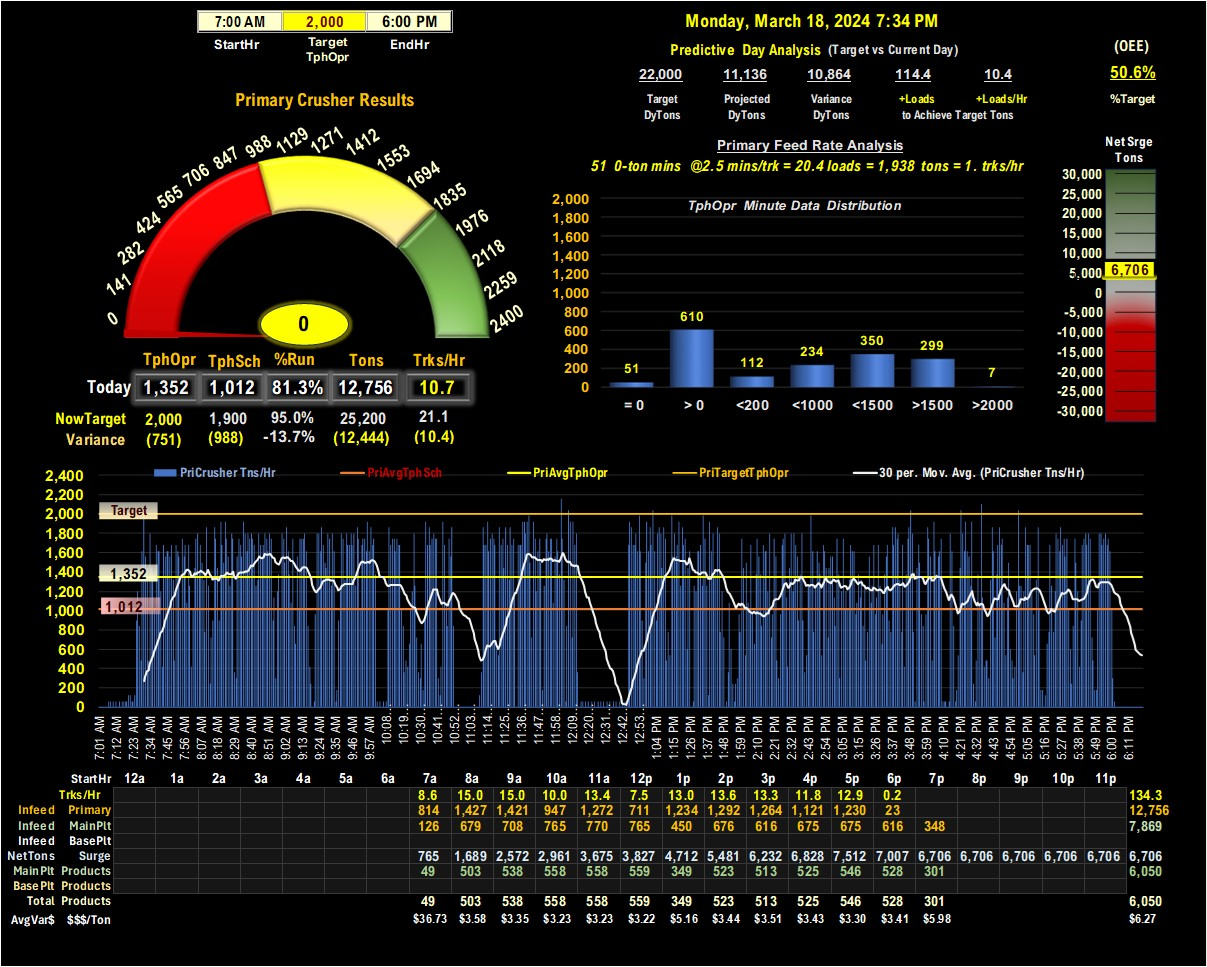
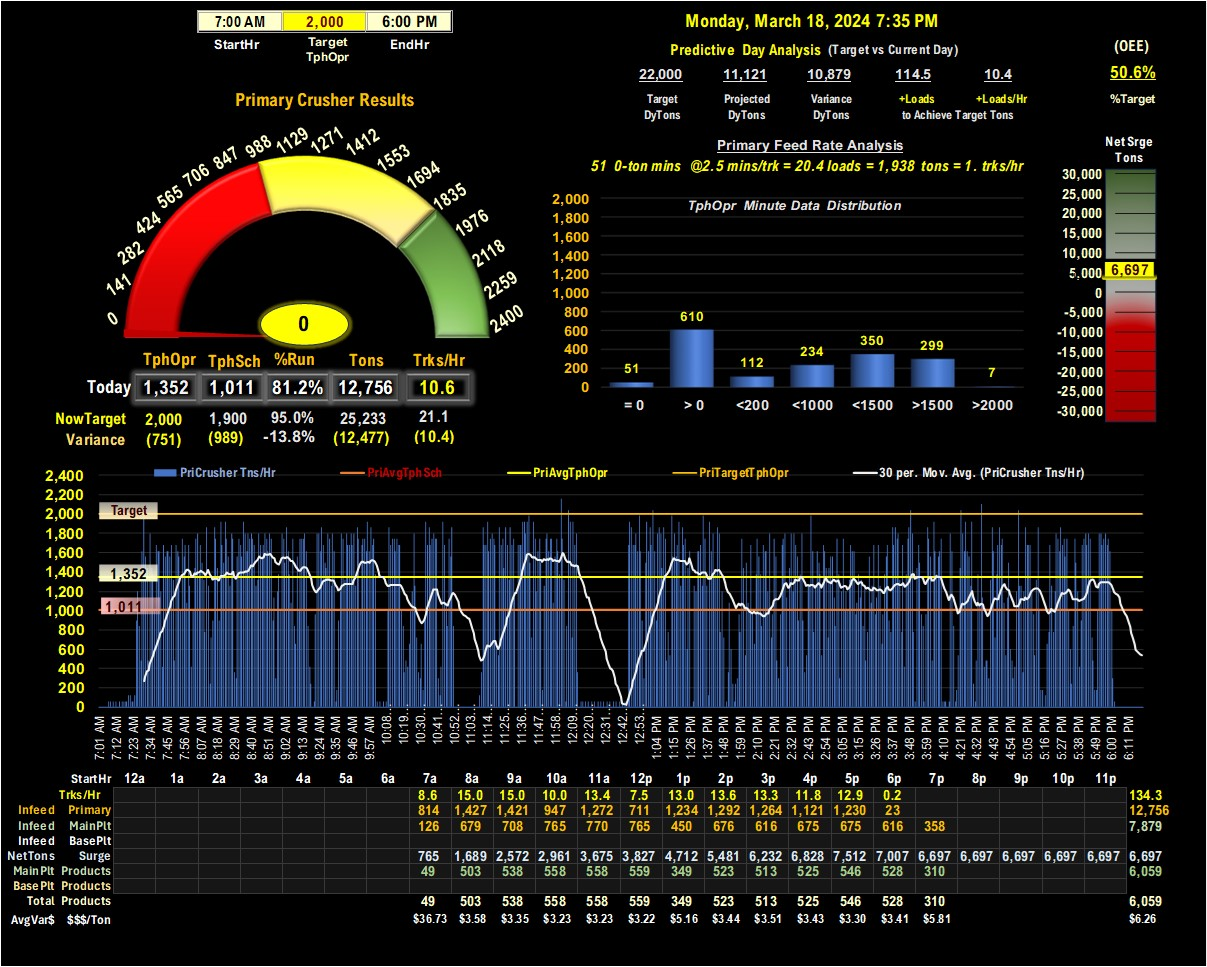
new commit

diff --git a/ColLSDPri1.py b/ColLSDPri1.py
@@ -1,0 +1,108 @@
+from PIL import Image
+import streamlit as st
+import subprocess
+import time
+import os
+
+# Set Page Configuration
+st.set_page_config(layout="wide", initial_sidebar_state="collapsed")
+
+# Inject custom CSS for title styling
+st.markdown("""
+        <style>
+        .title-font {
+            font-family: 'Arial Nova', Arial, sans-serif;
+            font-size: 14px !important;
+        }
+        </style>
+    """, unsafe_allow_html=True)
+
+# ---- HIDE STREAMLIT STYLE ----
+hide_st_style = """
+            <style>
+            #MainMenu {visibility: hidden;}
+            footer {visibility: hidden;}
+            header {visibility: hidden;}
+            </style>
+            """
+st.markdown(hide_st_style, unsafe_allow_html=True)
+
+st.markdown(
+    """
+    <style>
+    .reportview-container .viewer .stApp .footer {
+        visibility: hidden;
+    }
+    </style>
+    """,
+    unsafe_allow_html=True,
+)
+
+st.markdown("""
+    <style>
+    body {
+        background-color: #f0f0f0;
+    }
+    </style>
+    """, unsafe_allow_html=True)
+
+# Function to rerun the Streamlit app/script using Streamlit's experimental rerun feature
+def rerun():
+    st.experimental_rerun()
+    
+
+# Cache the function that loads the image
+#@st.cache_data
+def load_image(image_path):
+    return Image.open(image_path)
+
+
+def main():
+    # Add buttons for running the external programs in the sidebar
+    if st.sidebar.button('ReFresh Data'):
+        try:
+            subprocess.call([r"C:\pyRun1\pushOlenPrimary.bat"])
+        except Exception as e:
+            print("Error executing pushOlenPrimary.bat:", e)
+
+    if st.sidebar.button('Set Schedule'):
+        try:
+            process = subprocess.Popen(["streamlit", "run", r"C:\pyRun1\SetSchedule.py"], stdout=subprocess.PIPE, stderr=subprocess.PIPE)
+            stdout, stderr = process.communicate()
+            if stdout:
+                print("SetSchedule.py stdout:", stdout.decode())
+            if stderr:
+                print("SetSchedule.py stderr:", stderr.decode())
+        except Exception as e:
+            print("Error executing SetSchedule.py:", e)
+
+    # Inject custom CSS for sidebar background color
+    st.markdown(
+        """
+        <style>
+        .sidebar .sidebar-content {
+            background-color: #000080; /* Dark blue sidebar background */
+            color: white; /* Text color */
+        }
+        </style>
+        """,
+        unsafe_allow_html=True
+    )
+
+    # Local path to the image
+    image_path = "ColLSPri1.jpg"
+
+    # Load the image using the cached function
+    image = load_image(image_path)
+
+    # Display the image to automatically resize with the column width
+    st.image(image, use_column_width=True)
+
+    # Wait for 60 seconds before the next iteration
+    time.sleep(60)  
+    rerun()
+
+
+
+if __name__ == '__main__':
+    main()
